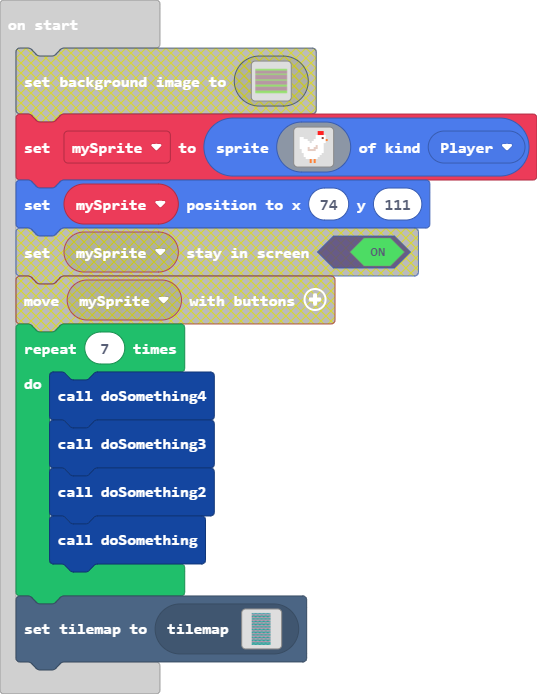
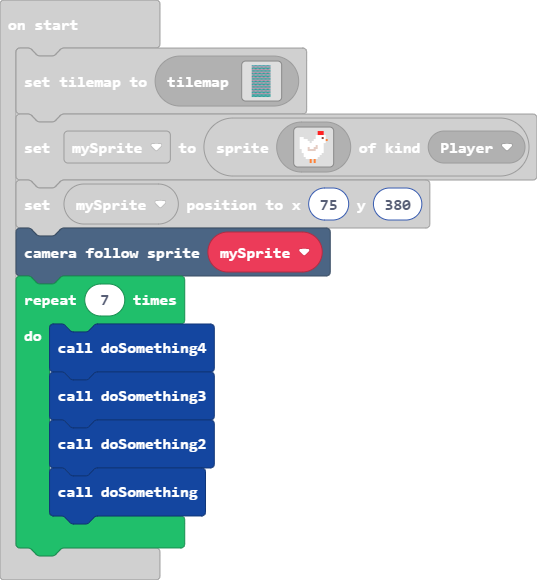
Update main.blocks, main.ts

diff --git a/main.ts b/main.ts
@@ -114,7 +114,7 @@ let mySprite = sprites.create(img`
     . . . . . . 4 . 4 . . . . . . . 
     . . . . . . 4 . 4 . . . . . . . 
     `, SpriteKind.Player)
-mySprite.setPosition(74, 380)
+mySprite.setPosition(75, 380)
 scene.cameraFollowSprite(mySprite)
 for (let index = 0; index < 7; index++) {
     doSomething4()
